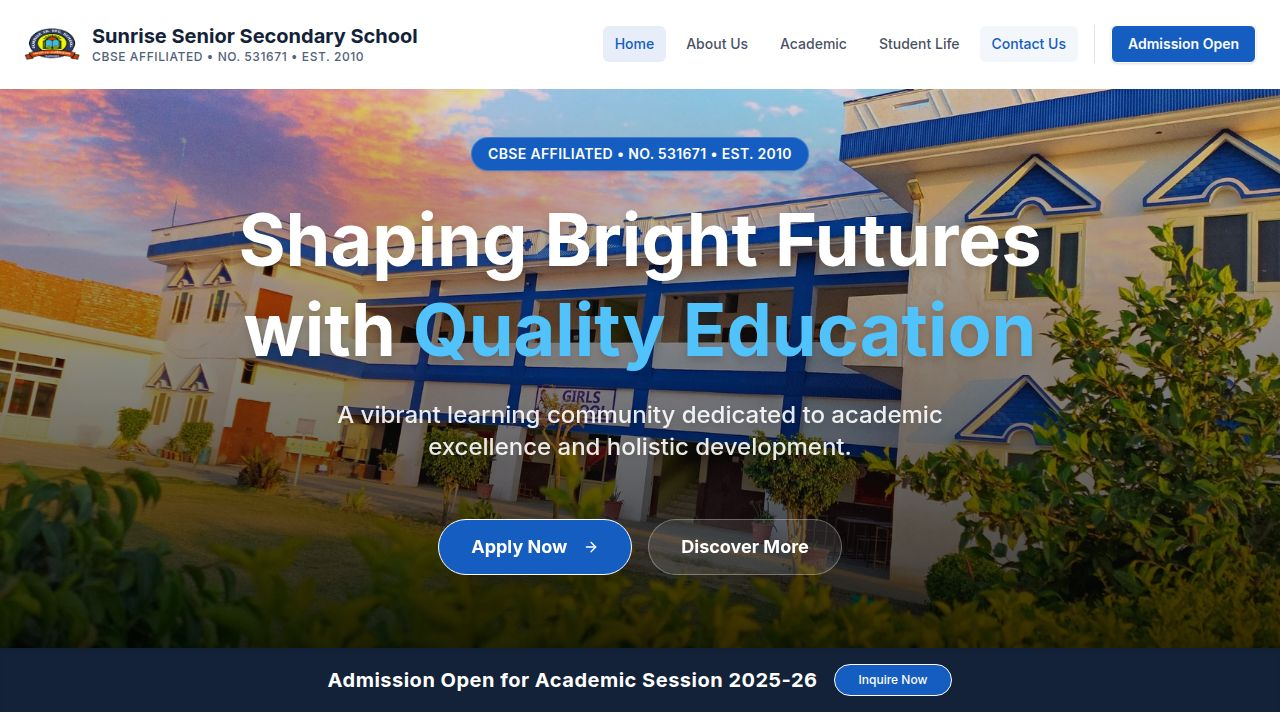
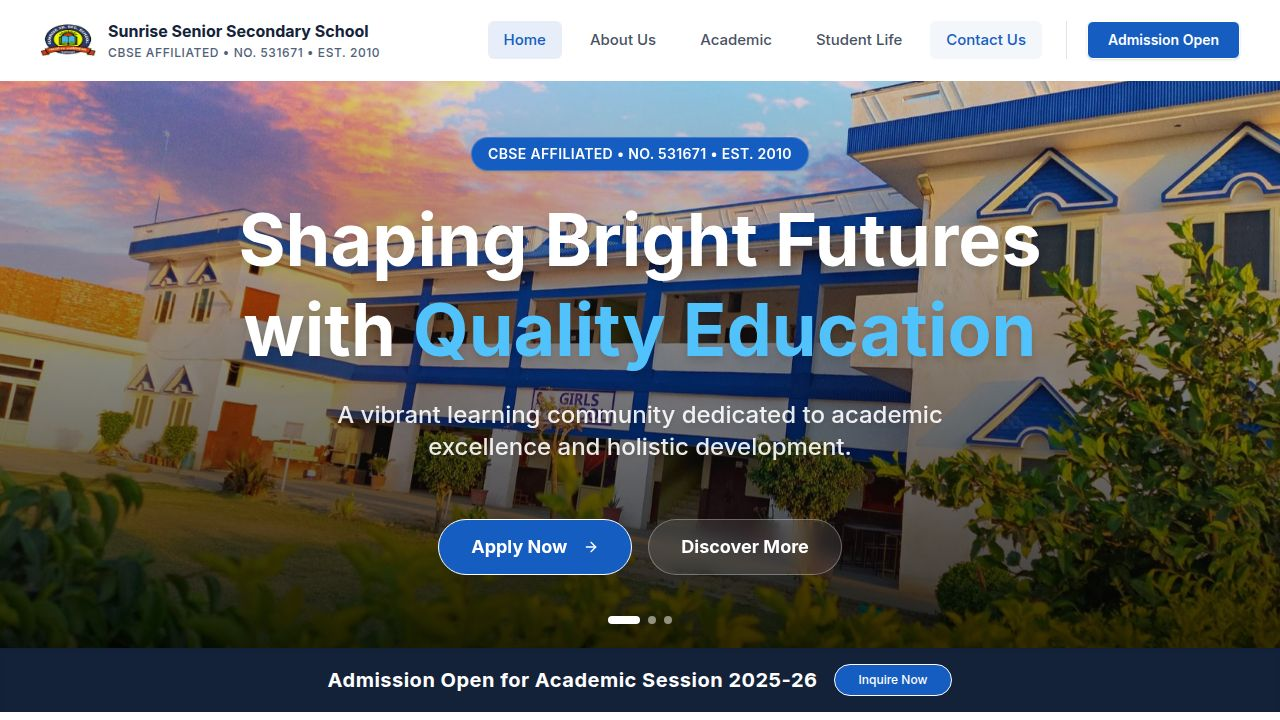
Add a rotating photo slideshow to the hero section
Implement a dynamic hero section with an auto-rotating image slideshow, featuring smooth transitions, indicator dots, and ken burns effect.

Replit-Commit-Author: Agent
Replit-Commit-Session-Id: 998c74cd-29cc-4bb2-b360-7dccba3767a6
Replit-Commit-Checkpoint-Type: full_checkpoint
Replit-Commit-Event-Id: bc9bca48-5ea9-4395-b167-2e17c1e924be
Replit-Commit-Screenshot-Url: https://storage.googleapis.com/screenshot-production-us-central1/b734d785-64e2-4a65-b3c5-ff88cda49c67/998c74cd-29cc-4bb2-b360-7dccba3767a6/xhrT4UU
Replit-Helium-Checkpoint-Created: true

diff --git a/artifacts/sunrise-school/src/pages/Home.tsx b/artifacts/sunrise-school/src/pages/Home.tsx
@@ -1,7 +1,16 @@
-import { motion } from "framer-motion";
+import { useEffect, useState } from "react";
+import { motion, AnimatePresence } from "framer-motion";
 import { Link } from "wouter";
 import { ArrowRight, BookOpen, Users, Building, ShieldCheck, Bus, FlaskConical, MonitorPlay, Sun, Calendar, Bell, Star, Award, Monitor, GraduationCap, ClipboardCheck, Quote } from "lucide-react";
 import { Button } from "@/components/ui/button";
+
+const HERO_IMAGES = [
+  { src: "/images/hero.png", alt: "Sunrise Senior Secondary School at sunset" },
+  { src: "/images/hero-2.png", alt: "Sunrise Senior Secondary School golden hour view" },
+  { src: "/images/campus-day.png", alt: "Sunrise Senior Secondary School daytime view" },
+];
+
+const HERO_SLIDE_INTERVAL_MS = 5000;
 
 const fadeIn = {
   hidden: { opacity: 0, y: 20 },
@@ -50,17 +59,47 @@ const NOTICES = [
 ];
 
 export default function Home() {
+  const [heroIndex, setHeroIndex] = useState(0);
+
+  useEffect(() => {
+    const timer = setInterval(() => {
+      setHeroIndex((prev) => (prev + 1) % HERO_IMAGES.length);
+    }, HERO_SLIDE_INTERVAL_MS);
+    return () => clearInterval(timer);
+  }, []);
+
   return (
     <div className="flex flex-col min-h-screen">
-      {/* 1. Hero Section */}
+      {/* 1. Hero Section — auto-rotating photo slideshow */}
       <section className="relative h-[90vh] min-h-[600px] flex items-center justify-center overflow-hidden bg-black/40">
         <div className="absolute inset-0 z-0">
-          <img 
-            src="/images/hero.png" 
-            alt="Sunrise Senior Secondary School" 
-            className="w-full h-full object-cover"
-          />
+          <AnimatePresence mode="sync">
+            <motion.img
+              key={HERO_IMAGES[heroIndex].src}
+              src={HERO_IMAGES[heroIndex].src}
+              alt={HERO_IMAGES[heroIndex].alt}
+              className="absolute inset-0 w-full h-full object-cover"
+              initial={{ opacity: 0, scale: 1.05 }}
+              animate={{ opacity: 1, scale: 1 }}
+              exit={{ opacity: 0 }}
+              transition={{ opacity: { duration: 1.2 }, scale: { duration: 6, ease: "easeOut" } }}
+            />
+          </AnimatePresence>
           <div className="absolute inset-0 bg-gradient-to-t from-black/80 via-black/40 to-transparent" />
+        </div>
+
+        {/* Slide indicator dots */}
+        <div className="absolute bottom-6 left-1/2 -translate-x-1/2 z-20 flex gap-2">
+          {HERO_IMAGES.map((_, i) => (
+            <button
+              key={i}
+              onClick={() => setHeroIndex(i)}
+              aria-label={`Show slide ${i + 1}`}
+              className={`h-2 rounded-full transition-all duration-300 ${
+                i === heroIndex ? "w-8 bg-white" : "w-2 bg-white/50 hover:bg-white/80"
+              }`}
+            />
+          ))}
         </div>
         
         <div className="container relative z-10 mx-auto px-4 md:px-6 mt-16 text-center text-white">